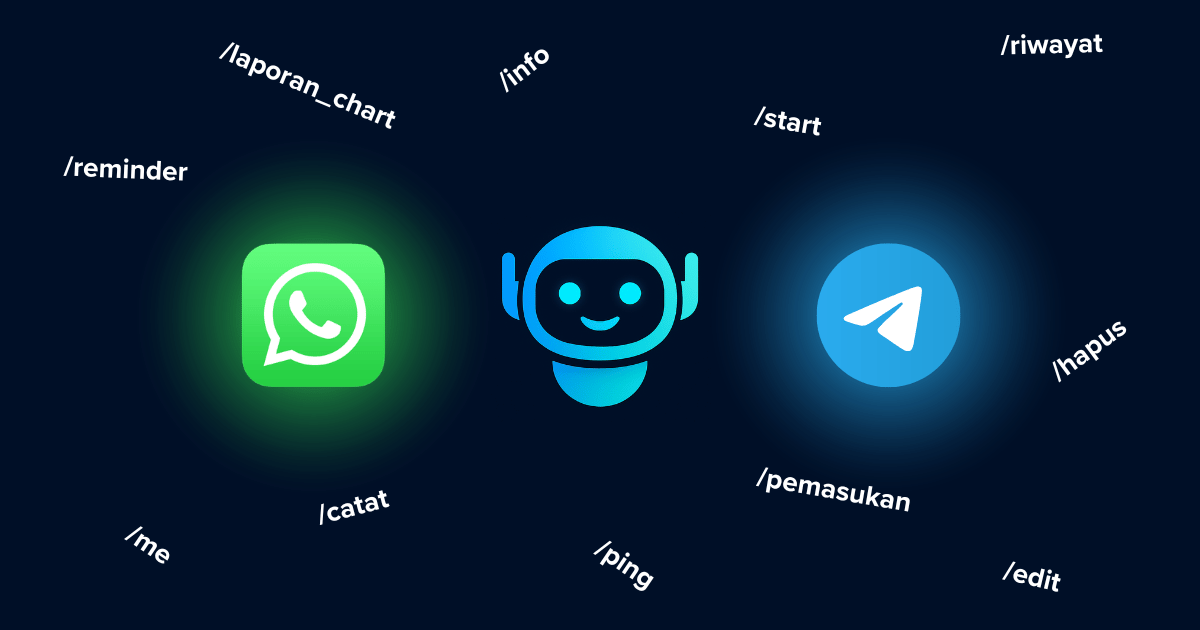
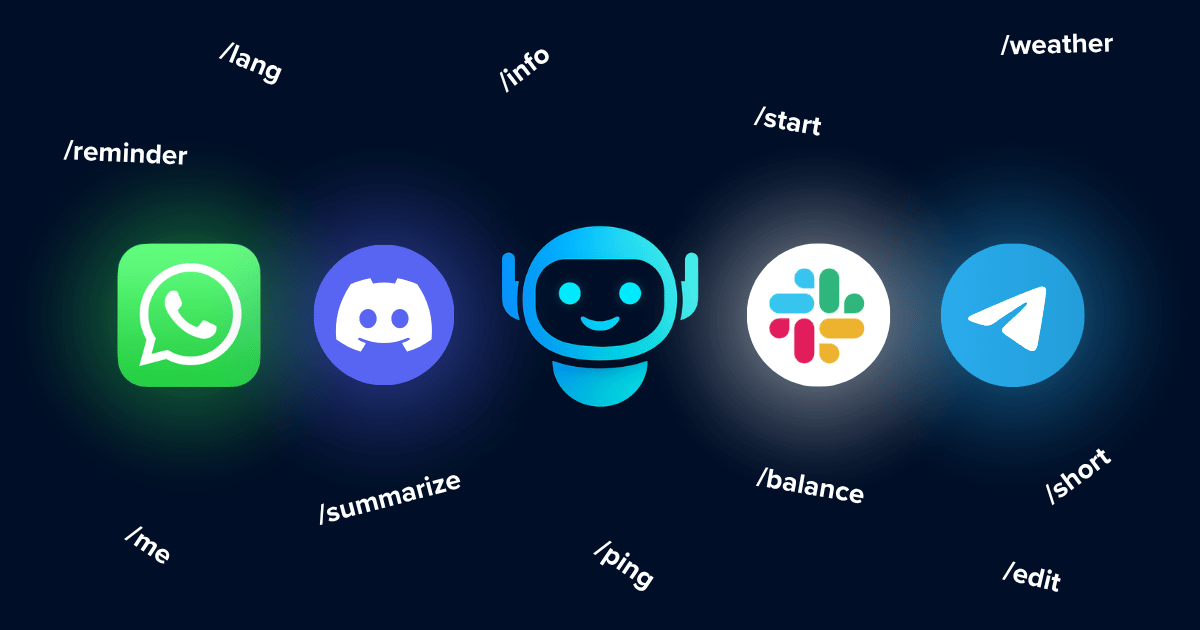
docs: update planning roadmap for phase 7 and refresh visual assets

diff --git a/docs/PLANNING.md b/docs/PLANNING.md
@@ -211,8 +211,11 @@ Command modules in `src/commands/` support simultaneous English and Indonesian t
   - [x] Ephemeral cloud browser sessions via Browserbase REST API & CDP WebSocket (`playwright-core`).
   - [x] Dedicated bilingual command `/browse <url>` (EN) and `/jelajah <url>` (ID).
   - [x] Full viewport screenshot capture and text content excerpting delivered natively with live session inspector URL.
-- [ ] **Phase 7: Discord & Slack Listeners (Omnichannel Expansion)**
-  - Add basic message listeners in Discord.js and Slack Bolt.
+- [x] **Phase 7: Discord & Slack Listeners (Omnichannel Expansion)**
+  - [x] Implement Discord.js transport adapter (`src/lib/discordClient.js` & `src/handlers/discordHandler.js`) with message buffering, command dispatching, and AI chat.
+  - [x] Implement Slack Bolt Socket Mode transport adapter (`src/lib/slackClient.js` & `src/handlers/slackHandler.js`) with message buffering, command dispatching, and AI chat.
+  - [x] Post-Phase 6 verification fixes: DM group chat buffer resolution, model switch persistence, markdown table converter, Telegram asterisks fix, and resilient ElevenLabs voice briefing delivery.
+  - [x] Non-blocking conditional initialization in `src/index.js` and automated tests in `tests/omnichannel.test.js`.
 - [ ] **Phase 8: English Documentation & DEV Submission**
   - Update `README.md` in English highlighting the "Slow and Steady" architecture, AES-256 privacy, and AI Agent Harness.
   - Draft submission for DEV Challenge Week 3.
